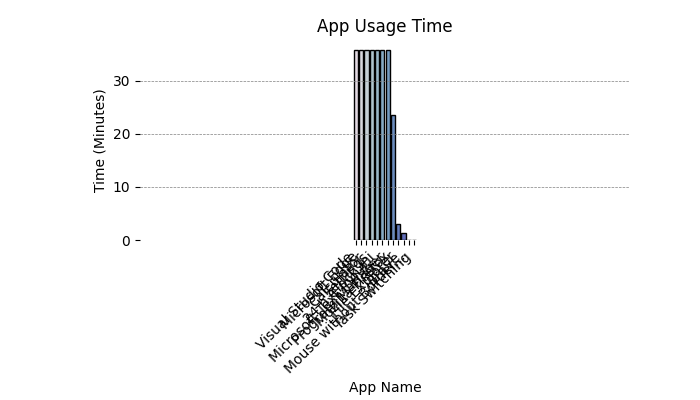
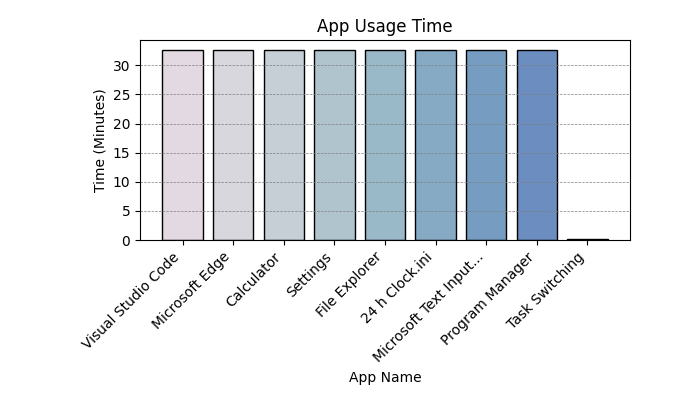
Pie chart finished patch
Pie chart adjustment patch completed, can now run simultaneously to the main column graph with no overlay errors or matplotlib self-destructs. Ram errors are avoided due to tactical plt.close(fig) in the main graph generation loops. Next recommended path is to adjust the "All apps" segment to adjust for seconds, minutes and hours, instead of just labelling everything as <1 hour if it doesn't crack the hour mark. Previous attempt is included, but non-functional and causes an unknown error. Also, looking into short-term data storage such as "previous week" and "previous month" based storage, with the main column graph being an "all time" graph. Potentially using time.time to measure out stretches of time as the program runs, and adjusting a .json file accordingly?

Also fuck you matplotlib you self-important program and your stupid "Not in main loop" errors. How about you be a bit more humble next time. And of course you run on tkinter and break half the time while being used with flask, unless I use a super specific adjustment that I had to search for AN HOUR for. You're lucky that your graphs look nice and I don't have as much time, or I'd drop you SO FAST.

diff --git a/templates/Page_1.html b/templates/Page_1.html
@@ -107,13 +107,38 @@
                     const appList = document.getElementById('appList');
                     console.log(data);
                     appList.innerHTML = ''; // Clear any existing content
+                    
+                    /*
+                    for (var [app, details] of Object.entries(data)) {
+                        const listItem = document.createElement('li');
+                        if (details.elapsed < 60) {
+                            let printtime = hour + " seconds";
+                        }
+                        elif (60 < details.elapsed < 3600) {
+                            let printtime = Math.round(details.elapsed/60) + " minutes";
+                        }
+                        elif (3600 < details.elapsed < 86400) {
+                            let printtime = Math.round(details.elapsed/3600) + " hours";
+                        }
+                        elif (86400 < details.elapsed < 604800) {
+                            let printtime = Math.round(details.elapsed/86400) + " days";
+                        }
+                        else {
+                            let printtime = Math.round(details.elapsed/3600) + " hours";
+                        }
+
+                        const tooltipSpan = document.createElement('span');
+                        tooltipSpan.className = 'tooltiptext';
+                        tooltipSpan.textContent = app + " " + details.elapsed; */
+
+                        //Alternate version, still needs work as it keeps crashing for an unknown reason.
 
                     for (var [app, details] of Object.entries(data)) {
                         const listItem = document.createElement('li');
                         let hours = Math.round(((details.elapsed/3600)*100));
                         let hour = hours/100;
                         if (hour < 1) {
-                            hour = "> 1";
+                            hour = "<1";
                         }
 
                         const tooltipSpan = document.createElement('span');

diff --git a/AppReader_Remake_Testing.py b/AppReader_Remake_Testing.py
@@ -1,5 +1,7 @@
 import pyautogui
 import time
+import matplotlib
+matplotlib.use("Agg")
 import matplotlib.pyplot as plt
 import numpy as np
 import os
@@ -9,7 +11,6 @@ import traceback
 
 truepath = os.path.dirname(os.path.abspath(__file__))
 path = truepath  + "\\static\\AppReaderData.json"
-fig, ax = plt.subplots(figsize=(7,4))
 columngraphpath = truepath + "\\static\\Column.png"
 piechartpath = truepath + "\\static\\Pie.png"
 timedisplay = "Seconds"
@@ -88,8 +89,9 @@ class AppReader():
         
 
 def update_graph(timedisplay):
+    fig1, ax1 = plt.subplots(figsize=(7,4))
     try:
-        ax.clear()
+        ax1.clear()
         smalllist = {}
         smalllist = AppReader.appslist
         #If there are more than 15 apps, only display the top 15
@@ -136,14 +138,15 @@ def update_graph(timedisplay):
                     theappnames = app_names[i][:20] + "..."
                     appernames[i] = theappnames
 
-        ax.bar(appernames, times, color=colors, edgecolor="black")
-        ax.set_xlabel('App Name')
-        ax.set_ylabel(f'Time ({timedisplay})')
-        ax.set_title('App Usage Time')
+        ax1.bar(appernames, times, color=colors, edgecolor="black")
+        ax1.set_xlabel('App Name')
+        ax1.set_ylabel(f'Time ({timedisplay})')
+        ax1.set_title('App Usage Time')
         plt.grid(True, which="both", linestyle="--", linewidth=0.5, color="gray", axis="y")
         plt.xticks(rotation = 45, ha="right")
         plt.subplots_adjust(left=0.2,bottom=0.4, top = 0.9, right = 0.9)
         plt.savefig(columngraphpath)
+        plt.close(fig1)
     except Exception as e:
         print("GRAPH ERROR:")
         print(e)
@@ -154,8 +157,9 @@ def update_graph(timedisplay):
     return timedisplay
 
 def piechart():
+    fig2, ax2 = plt.subplots(figsize=(7,4))
     try:
-        ax.clear()
+        ax2.clear()
         smalllist = {}
         smalllist = AppReader.appslist
         #If there are more than 10 apps, only display the top 10
@@ -189,13 +193,13 @@ def piechart():
         color_indices = np.arange(len(appernames))
         cmap = plt.colormaps.get_cmap("twilight")
         colors = [cmap(index*15) for index in color_indices]
-        ax.pie(times, autopct='%1.1f%%', startangle=0, colors=colors)
-        ax.axis('equal')
-        ax.set_title('App Usage Time')
-        ax.legend(appernames, title="Legend", loc="center left", bbox_to_anchor=(-0.1, 0))
+        ax2.pie(times, autopct='%1.1f%%', startangle=0, colors=colors)
+        ax2.axis('equal')
+        ax2.set_title('App Usage Time')
+        ax2.legend(appernames, title="Legend", loc="center left", bbox_to_anchor=(-0.1, 0))
         plt.subplots_adjust(left=0.2,bottom=0.4, top = 0.9, right = 0.9)
         plt.savefig(piechartpath)
-        
+        plt.close(fig2)
     except Exception as e:
         print("GRAPH ERROR:")
         print(e)
@@ -203,7 +207,7 @@ def piechart():
         time.sleep(2)
         pass
 
-#Recommended next avenue is to add alternative graph methods such as pie chart and/or time based records e.g. previous day, week, month, year.
+#Recommended next avenue is to add alternative graph methods such as time based records e.g. previous day, week, month, year.
     
 def scan():
     while True:
